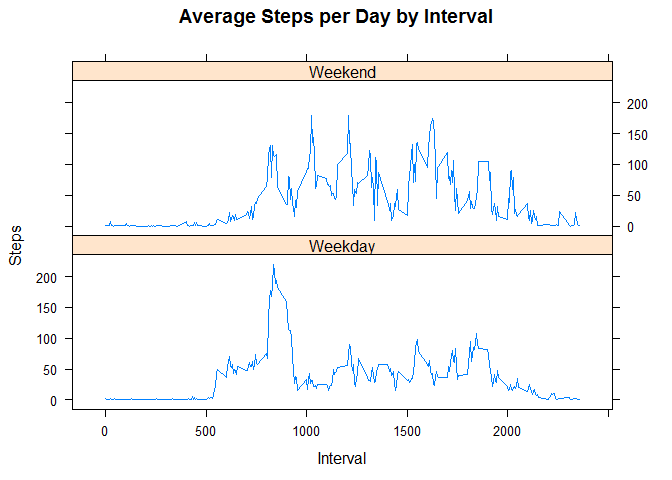
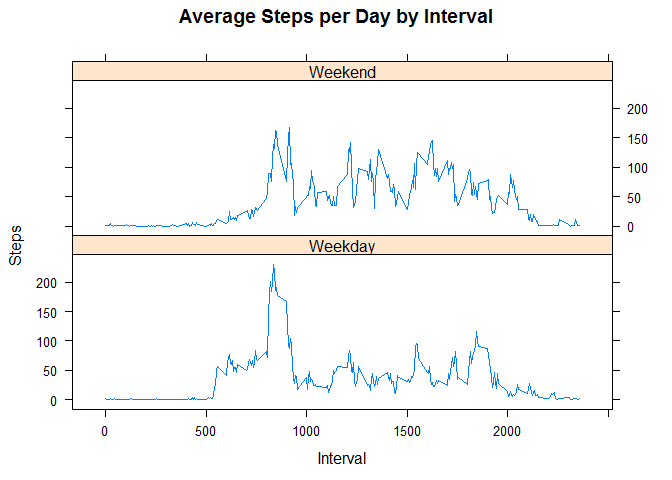
Correct typo

diff --git a/PA1_template.html b/PA1_template.html
@@ -226,7 +226,7 @@ abline(v = complete_step_mean, col = &quot;red&quot;) # Add  red line which is t
 <div id="are-there-differences-in-activity-patterns-between-weekdays-and-weekends" class="section level3">
 <h3>Are there differences in activity patterns between weekdays and weekends?</h3>
 <p>Here we create a new factor column of weekday and Weekend</p>
-<pre class="r"><code>weekends &lt;-  c(&quot;Suturday&quot;, &quot;Sunday&quot;)
+<pre class="r"><code>weekends &lt;-  c(&quot;Saturday&quot;, &quot;Sunday&quot;)
 
 complete_df$Day_or_end &lt;- as.factor(ifelse(is.element(weekdays(as.Date(complete_df$date)), weekends),&quot;Weekend&quot;, &quot;Weekday&quot;))
 
@@ -245,12 +245,12 @@ head(complete_df)</code></pre>
 <pre class="r"><code>step_by_interval_factor &lt;- aggregate(steps ~ interval + Day_or_end, complete_df, mean)
 head(step_by_interval_factor)</code></pre>
 <pre><code>##   interval Day_or_end      steps
-## 1        0    Weekday 1.94375222
-## 2        5    Weekday 0.38447846
-## 3       10    Weekday 0.14951940
-## 4       15    Weekday 0.17087932
-## 5       20    Weekday 0.08543966
-## 6       25    Weekday 1.38981844</code></pre>
+## 1        0    Weekday 2.25115304
+## 2        5    Weekday 0.44528302
+## 3       10    Weekday 0.17316562
+## 4       15    Weekday 0.19790356
+## 5       20    Weekday 0.09895178
+## 6       25    Weekday 1.59035639</code></pre>
 </div>
 <div id="plot-using-lattice" class="section level3">
 <h3>plot using Lattice</h3>
@@ -261,7 +261,7 @@ xyplot(step_by_interval_factor$steps ~ step_by_interval_factor$interval |
          step_by_interval_factor$Day_or_end, layout = c(1, 2), type = &quot;l&quot;,
        
        main=&quot;Average Steps per Day by Interval&quot;, xlab =  &quot;Interval&quot;, ylab = &quot;Steps&quot;)</code></pre>
[2 lines of base64/hex data omitted]
 </div>
 
 

diff --git a/PA1_template.md b/PA1_template.md
@@ -158,7 +158,7 @@ abline(v = complete_step_mean, col = "red") # Add  red line which is the mean
 Here we create a new factor column of weekday and Weekend      
 
 ```r
-weekends <-  c("Suturday", "Sunday")
+weekends <-  c("Saturday", "Sunday")
 
 complete_df$Day_or_end <- as.factor(ifelse(is.element(weekdays(as.Date(complete_df$date)), weekends),"Weekend", "Weekday"))
 
@@ -185,12 +185,12 @@ head(step_by_interval_factor)
 
 ```
 ##   interval Day_or_end      steps
-## 1        0    Weekday 1.94375222
-## 2        5    Weekday 0.38447846
-## 3       10    Weekday 0.14951940
-## 4       15    Weekday 0.17087932
-## 5       20    Weekday 0.08543966
-## 6       25    Weekday 1.38981844
+## 1        0    Weekday 2.25115304
+## 2        5    Weekday 0.44528302
+## 3       10    Weekday 0.17316562
+## 4       15    Weekday 0.19790356
+## 5       20    Weekday 0.09895178
+## 6       25    Weekday 1.59035639
 ```
 ### plot using Lattice
 
